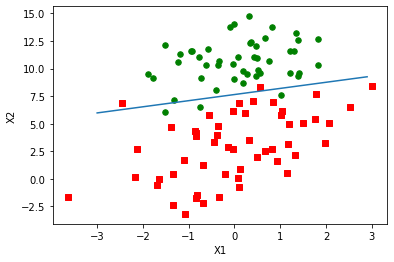
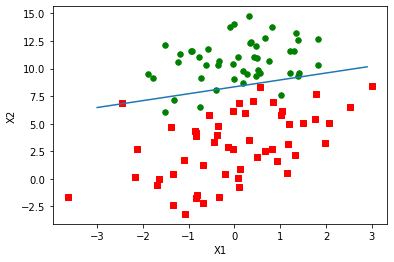
更新了第5章代码

Changed region(s): [[0.2437, 0.2443, 0.9442, 0.458]]

diff --git a/Machine-Learning-in-Action/第五章Logistic回归/logRegres.py b/Machine-Learning-in-Action/第五章Logistic回归/logRegres.py
@@ -8,23 +8,23 @@ def loadDataSet():
         for line in fr.readlines():
             lineArr = line.strip().split()
             dataMat.append([1.0, float(lineArr[0]), float(lineArr[1])])
-            labelMat.append(int(lineArr[2]))
+            labelMat.append([int(lineArr[2])])
     return dataMat, labelMat
 
 def sigmoid(inX):
     return exp(inX) / (1 + exp(inX)) if inX < 0 else 1.0 / (1 + exp(-inX))
 
 def gradAscent(dataMatIn, classLabels):
-    dataMatrix = mat(dataMatIn)
-    labelMat = mat(classLabels).T
+    dataMatrix = array(dataMatIn)             #转换为NumPy矩阵类型
+    labelMat = array(classLabels)
     m, n = shape(dataMatrix)
     alpha = 0.001
     maxCycles = 500
     weights = ones((n, 1))
     for k in range(maxCycles):
-        h = sigmoid(dataMatrix * weights)
+        h = sigmoid(dot(dataMatrix, weights)) #矩阵相乘
         error = labelMat - h
-        weights = weights + alpha * dataMatrix.T * error
+        weights = weights + alpha * dot(dataMatrix.T, error)
     return weights
 
 def plotBestFit(weights):
@@ -36,7 +36,7 @@ def plotBestFit(weights):
     xcord2 = []
     ycord2 = []
     for i in range(n):
-        if int(labelMat[i]) == 1:
+        if labelMat[i][0] == 1:
             xcord1.append(dataArr[i, 1])
             ycord1.append(dataArr[i, 2])
         else:
@@ -47,7 +47,7 @@ def plotBestFit(weights):
     ax.scatter(xcord1, ycord1, s=30, c='red', marker='s')
     ax.scatter(xcord2, ycord2, s=30, c='green')
     x = arange(-3.0, 3.0, 0.1)
-    y = (-weights[0] - weights[1] * x) / weights[2]
+    y = (-weights[0] - weights[1] * x) / weights[2]        #最佳拟合直线
     ax.plot(x, y)
     plt.xlabel('X1')
     plt.ylabel('X2')
@@ -58,8 +58,8 @@ def stocGradAscent0(dataMatrix, classLabels):
     alpha = 0.01
     weights = ones(n)
     for i in range(m):
-        h = sigmoid(sum(dataMatrix[i] * weights))
-        error = classLabels[i] - h
+        h = sigmoid(dot(dataMatrix[i], weights))
+        error = classLabels[i][0] - h
         weights = weights + alpha * error * dataMatrix[i]
     return weights
 
@@ -69,16 +69,16 @@ def stocGradAscent1(dataMatrix, classLabels, numIter = 150):
     for j in range(numIter):
         dataIndex = list(range(m))
         for i in range(m):
-            alpha = 4 / (1.0 + j + i) + 0.01
-            randIndex = int(random.uniform(0, len(dataIndex)))
-            h = sigmoid(sum(dataMatrix[randIndex] * weights))
-            error = classLabels[randIndex] - h
+            alpha = 4 / (1.0 + j + i) + 0.01                     #alpha每次迭代时需要调整
+            randIndex = int(random.uniform(0, len(dataIndex)))   #随机选取更新
+            h = sigmoid(dot(dataMatrix[randIndex], weights))
+            error = classLabels[randIndex][0] - h
             weights = weights + alpha * error * dataMatrix[randIndex]
             del dataIndex[randIndex]
     return weights
 
 def classifyVector(inX, weights):
-    prob = sigmoid(sum(inX * weights))
+    prob = sigmoid(dot(inX, weights))
     return 1.0 if prob > 0.5 else 0.0
 
 def colicTest():
@@ -91,7 +91,7 @@ def colicTest():
             for i in range(21):
                 lineArr.append(float(currLine[i]))
             trainingSet.append(lineArr)
-            trainingLabels.append(float(currLine[21]))
+            trainingLabels.append([float(currLine[21])])
     trainWeights = stocGradAscent1(array(trainingSet), trainingLabels, 500)
     errorCount = 0
     numTestVec = 0.0

diff --git a/Machine-Learning-in-Action/第五章Logistic回归/README.md b/Machine-Learning-in-Action/第五章Logistic回归/README.md
@@ -95,23 +95,23 @@ def loadDataSet():
         for line in fr.readlines():
             lineArr = line.strip().split()
             dataMat.append([1.0, float(lineArr[0]), float(lineArr[1])])
-            labelMat.append(int(lineArr[2]))
+            labelMat.append([int(lineArr[2])])
     return dataMat, labelMat
 
 def sigmoid(inX):
     return 1.0/(1+exp(-inX))
 
 def gradAscent(dataMatIn, classLabels):
-    dataMatrix = mat(dataMatIn)          #转换为NumPy矩阵数据类型
-    labelMat = mat(classLabels).T
+    dataMatrix = array(dataMatIn)             #转换为NumPy矩阵类型
+    labelMat = array(classLabels)
     m, n = shape(dataMatrix)
     alpha = 0.001
     maxCycles = 500
     weights = ones((n, 1))
     for k in range(maxCycles):
-        h = sigmoid(dataMatrix * weights)                  #矩阵相乘
+        h = sigmoid(dot(dataMatrix, weights)) #矩阵相乘
         error = labelMat - h
-        weights = weights + alpha * dataMatrix.T * error
+        weights = weights + alpha * dot(dataMatrix.T, error)
     return weights
 
 dataArr, labelMat = loadDataSet()
@@ -121,9 +121,9 @@ gradAscent(dataArr, labelMat)
 
 
 
-    matrix([[ 4.12414349],
-            [ 0.48007329],
-            [-0.6168482 ]])
+    array([[ 4.12414349],
+           [ 0.48007329],
+           [-0.6168482 ]])
 
 
 
@@ -142,7 +142,7 @@ def plotBestFit(weights):
     xcord2 = []
     ycord2 = []
     for i in range(n):
-        if int(labelMat[i]) == 1:
+        if labelMat[i][0] == 1:
             xcord1.append(dataArr[i, 1])
             ycord1.append(dataArr[i, 2])
         else:
@@ -153,14 +153,14 @@ def plotBestFit(weights):
     ax.scatter(xcord1, ycord1, s=30, c='red', marker='s')
     ax.scatter(xcord2, ycord2, s=30, c='green')
     x = arange(-3.0, 3.0, 0.1)
-    y = (-weights[0] - weights[1] * x) / weights[2]
+    y = (-weights[0] - weights[1] * x) / weights[2]        #最佳拟合直线
     ax.plot(x, y)
     plt.xlabel('X1')
     plt.ylabel('X2')
     plt.show()
     
 weights = gradAscent(dataArr, labelMat)
-plotBestFit(weights.getA())
+plotBestFit(weights)
 ```
 
 
@@ -194,8 +194,8 @@ def stocGradAscent0(dataMatrix, classLabels):
     alpha = 0.01
     weights = ones(n)
     for i in range(m):
-        h = sigmoid(sum(dataMatrix[i] * weights))
-        error = classLabels[i] - h
+        h = sigmoid(dot(dataMatrix[i], weights))
+        error = classLabels[i][0] - h
         weights = weights + alpha * error * dataMatrix[i]
     return weights
 
@@ -224,10 +224,10 @@ def stocGradAscent1(dataMatrix, classLabels, numIter = 150):
     for j in range(numIter):
         dataIndex = list(range(m))
         for i in range(m):
-            alpha = 4 / (1.0 + j + i) + 0.01                    #alpha每次迭代时需要调整
-            randIndex = int(random.uniform(0, len(dataIndex)))         #随机选取更新
-            h = sigmoid(sum(dataMatrix[randIndex] * weights))
-            error = classLabels[randIndex] - h
+            alpha = 4 / (1.0 + j + i) + 0.01                     #alpha每次迭代时需要调整
+            randIndex = int(random.uniform(0, len(dataIndex)))   #随机选取更新
+            h = sigmoid(dot(dataMatrix[randIndex], weights))
+            error = classLabels[randIndex][0] - h
             weights = weights + alpha * error * dataMatrix[randIndex]
             del dataIndex[randIndex]
     return weights
@@ -299,7 +299,7 @@ def sigmoid(inX):
     return exp(inX) / (1 + exp(inX)) if inX < 0 else 1.0 / (1 + exp(-inX))
 
 def classifyVector(inX, weights):
-    prob = sigmoid(sum(inX * weights))
+    prob = sigmoid(dot(inX, weights))
     return 1.0 if prob > 0.5 else 0.0
 
 def colicTest():
@@ -312,7 +312,7 @@ def colicTest():
             for i in range(21):
                 lineArr.append(float(currLine[i]))
             trainingSet.append(lineArr)
-            trainingLabels.append(float(currLine[21]))
+            trainingLabels.append([float(currLine[21])])
     trainWeights = stocGradAscent1(array(trainingSet), trainingLabels, 500)
     errorCount = 0
     numTestVec = 0.0
@@ -339,20 +339,15 @@ def multiTest():
 multiTest()
 ```
 
-    the error rate of this test is: 0.417910
+    the error rate of this test is: 0.388060
+    the error rate of this test is: 0.283582
+    the error rate of this test is: 0.358209
     the error rate of this test is: 0.402985
-    the error rate of this test is: 0.388060
-    the error rate of this test is: 0.268657
-    the error rate of this test is: 0.373134
-    the error rate of this test is: 0.388060
-    the error rate of this test is: 0.343284
-    the error rate of this test is: 0.373134
+    the error rate of this test is: 0.328358
+    the error rate of this test is: 0.298507
     the error rate of this test is: 0.313433
-    the error rate of this test is: 0.507463
-    after 10 iterations the average error rate is: 0.377612
+    the error rate of this test is: 0.343284
+    the error rate of this test is: 0.238806
+    the error rate of this test is: 0.328358
+    after 10 iterations the average error rate is: 0.328358
     
-
-
-```python
-
-```
